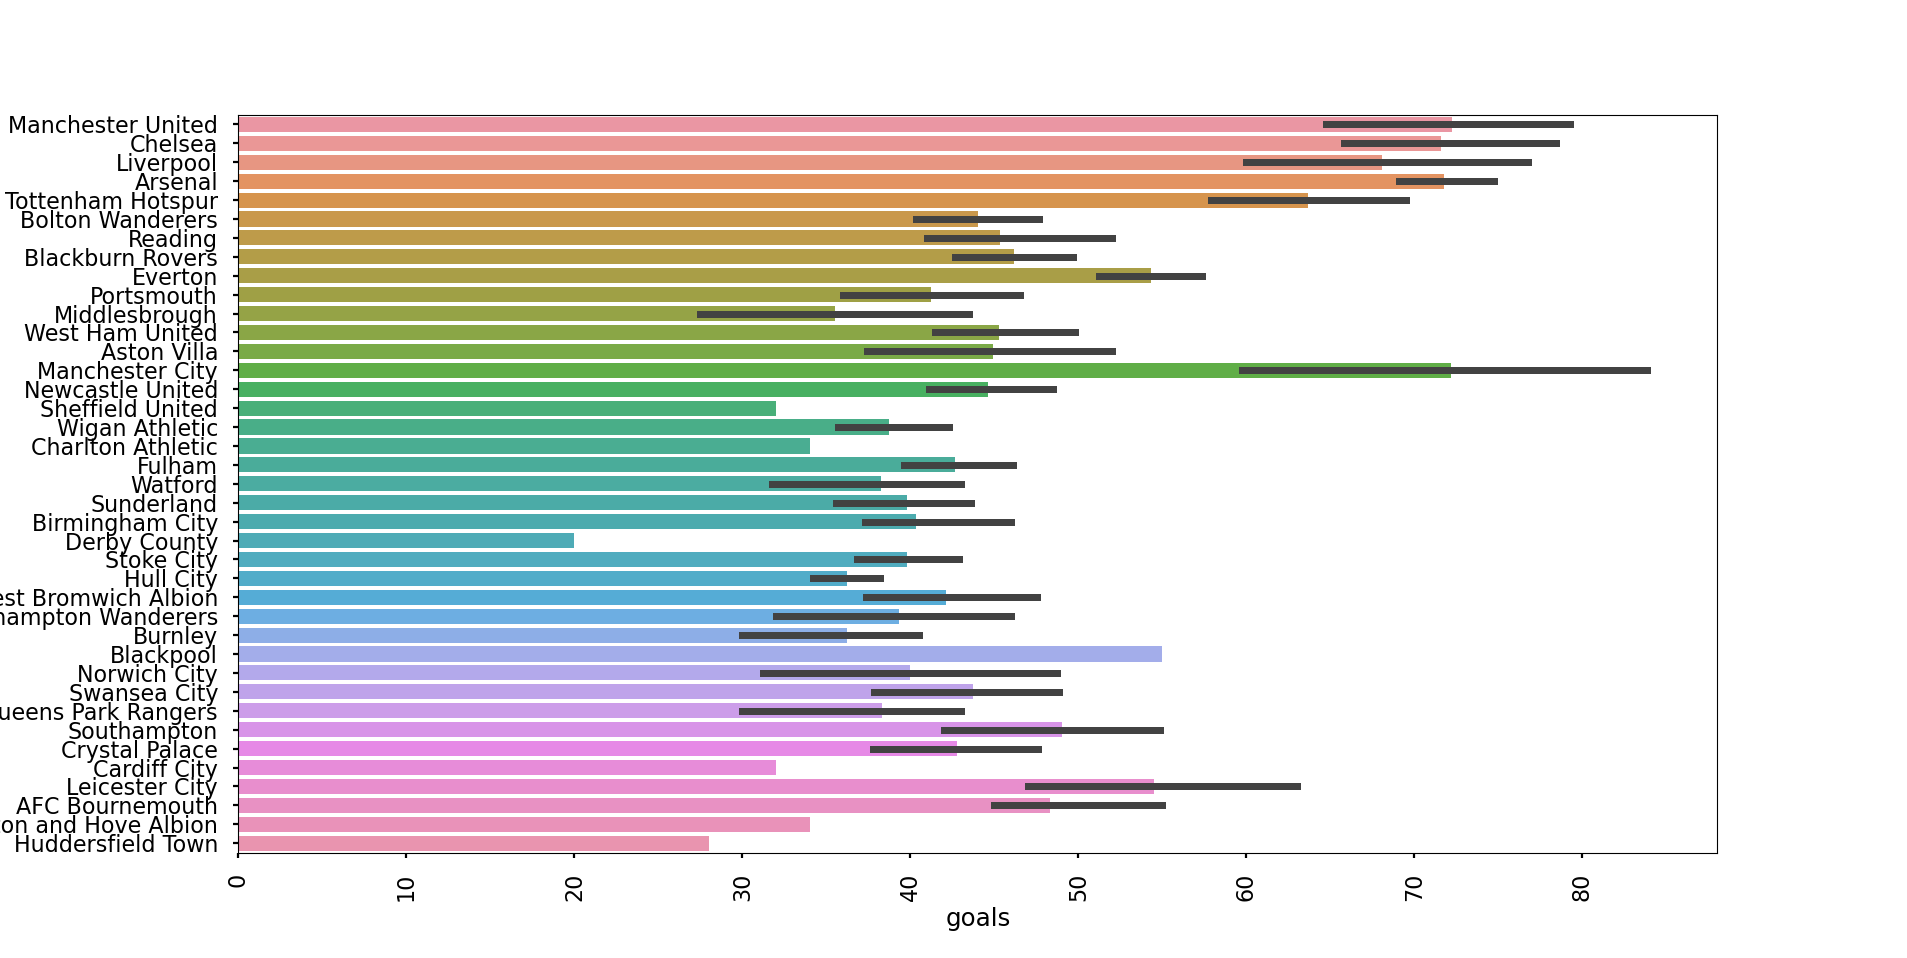
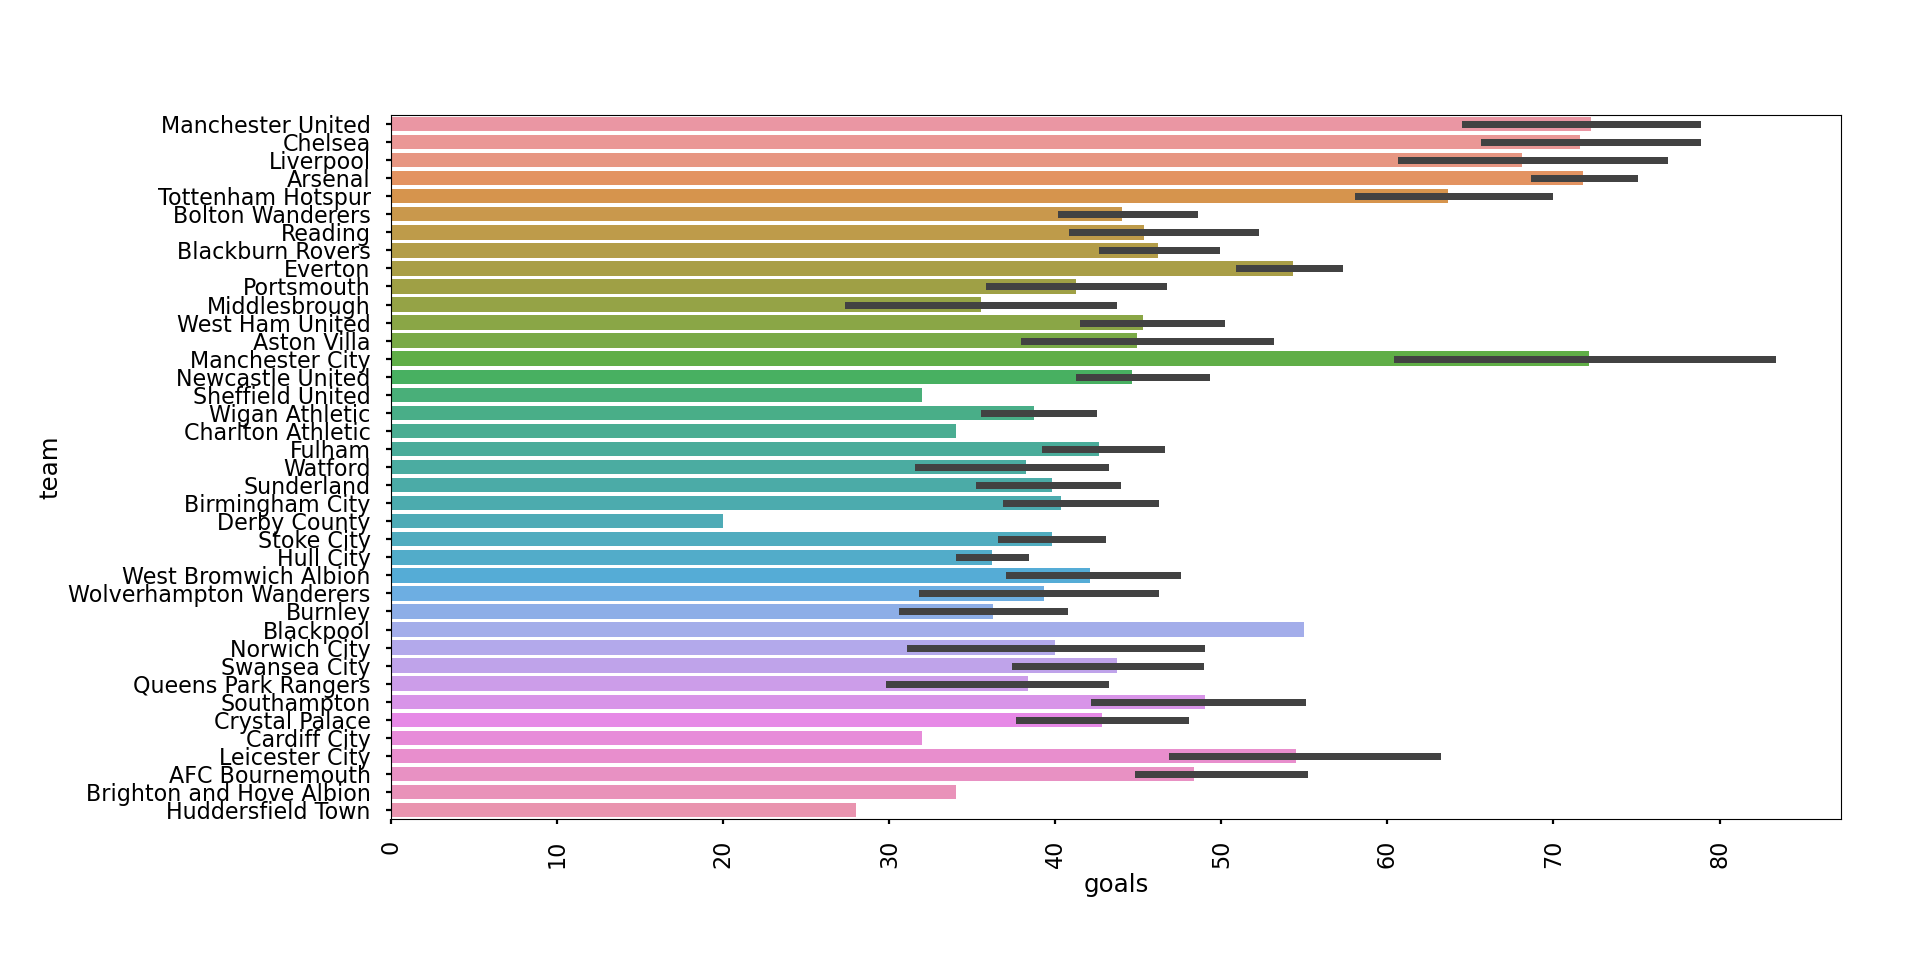
update

diff --git a/src/premier/charts.py b/src/premier/charts.py
@@ -5,7 +5,7 @@ import seaborn as sns
 import utils
 import read_csv
 
-def plot_season_goals(data):
+def plot_goals_home(data):
     plt.xticks(rotation=90)
     sns.lineplot(x="season", y="home_goals", data=data)
     plt.show()
@@ -23,18 +23,18 @@ def plot_goals(data):
     sns.barplot(x="season",y="goals",data=data)
     plt.show()
 
-    plt.figure(figsize=(15, 12))
+    plt.figure(figsize=(10, 6))
     plt.style.use('seaborn-poster')
     plt.xticks(rotation=90);
     sns.barplot(x="goals",y="team",data=data)
     plt.show()
 
 if __name__ == '__main__':
-    data_season_goals = utils.season_goals
+    data_goals_home = utils.season_goals
     data_mudf = utils.mudf
     data_goals = read_csv.df_stats
     
-    plot_season_goals(data_season_goals)
+    plot_goals_home(data_goals_home)
     plot_mudf(data_mudf)
     plot_goals(data_goals)
 
